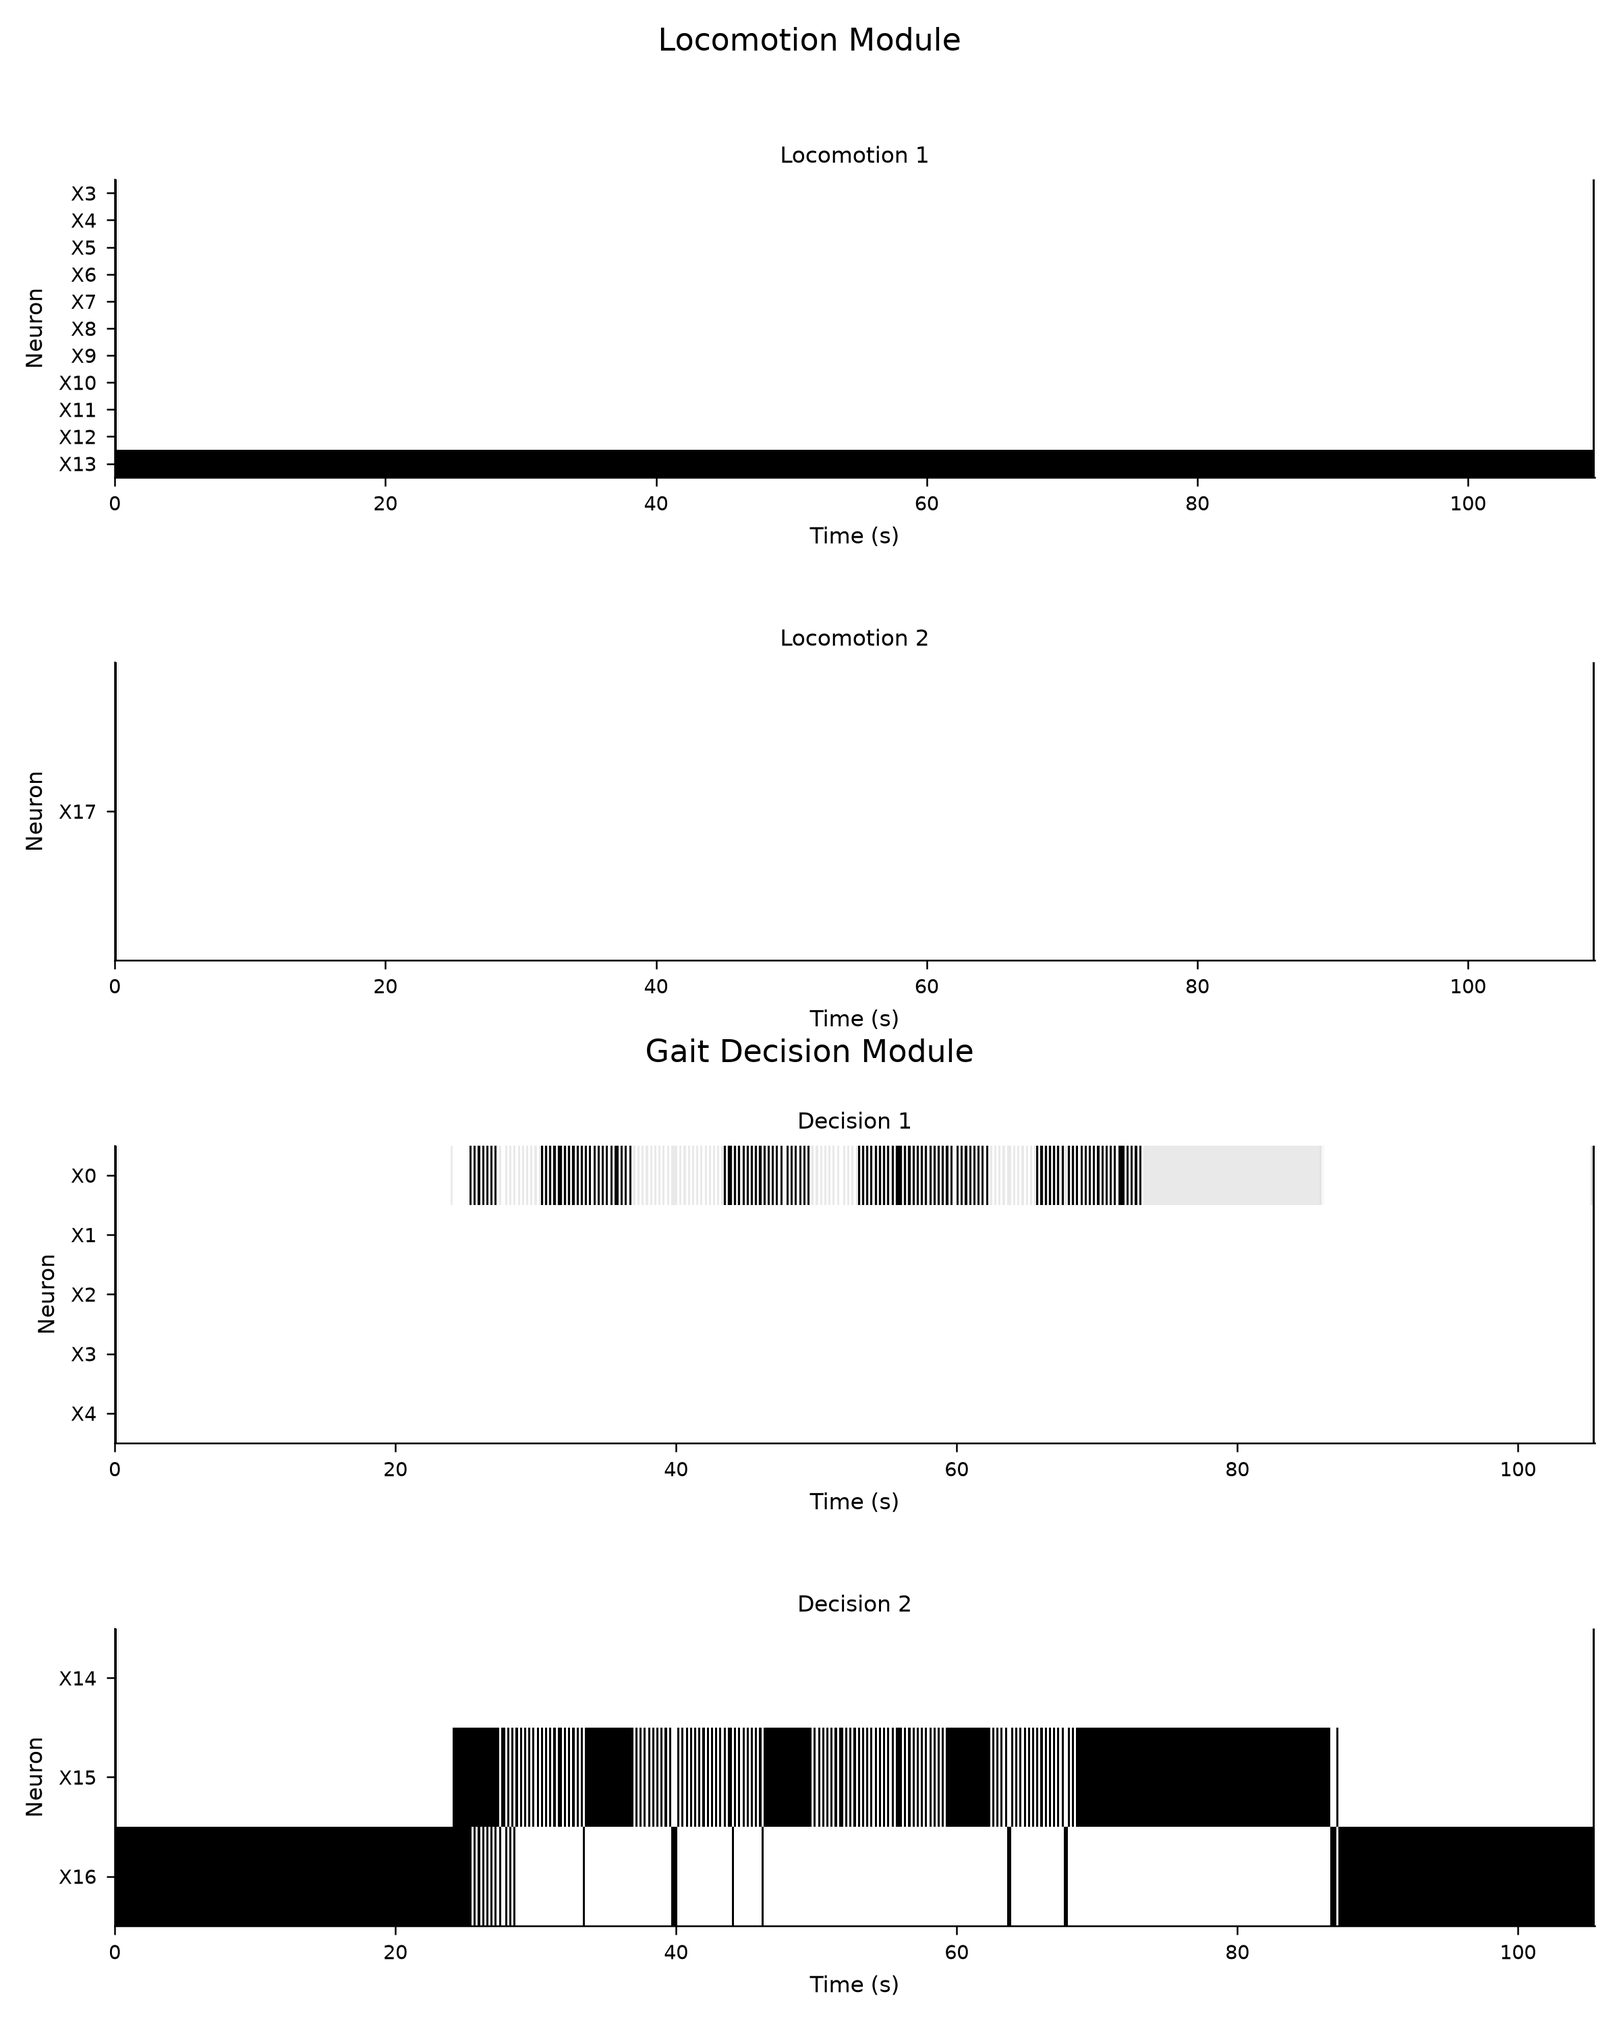
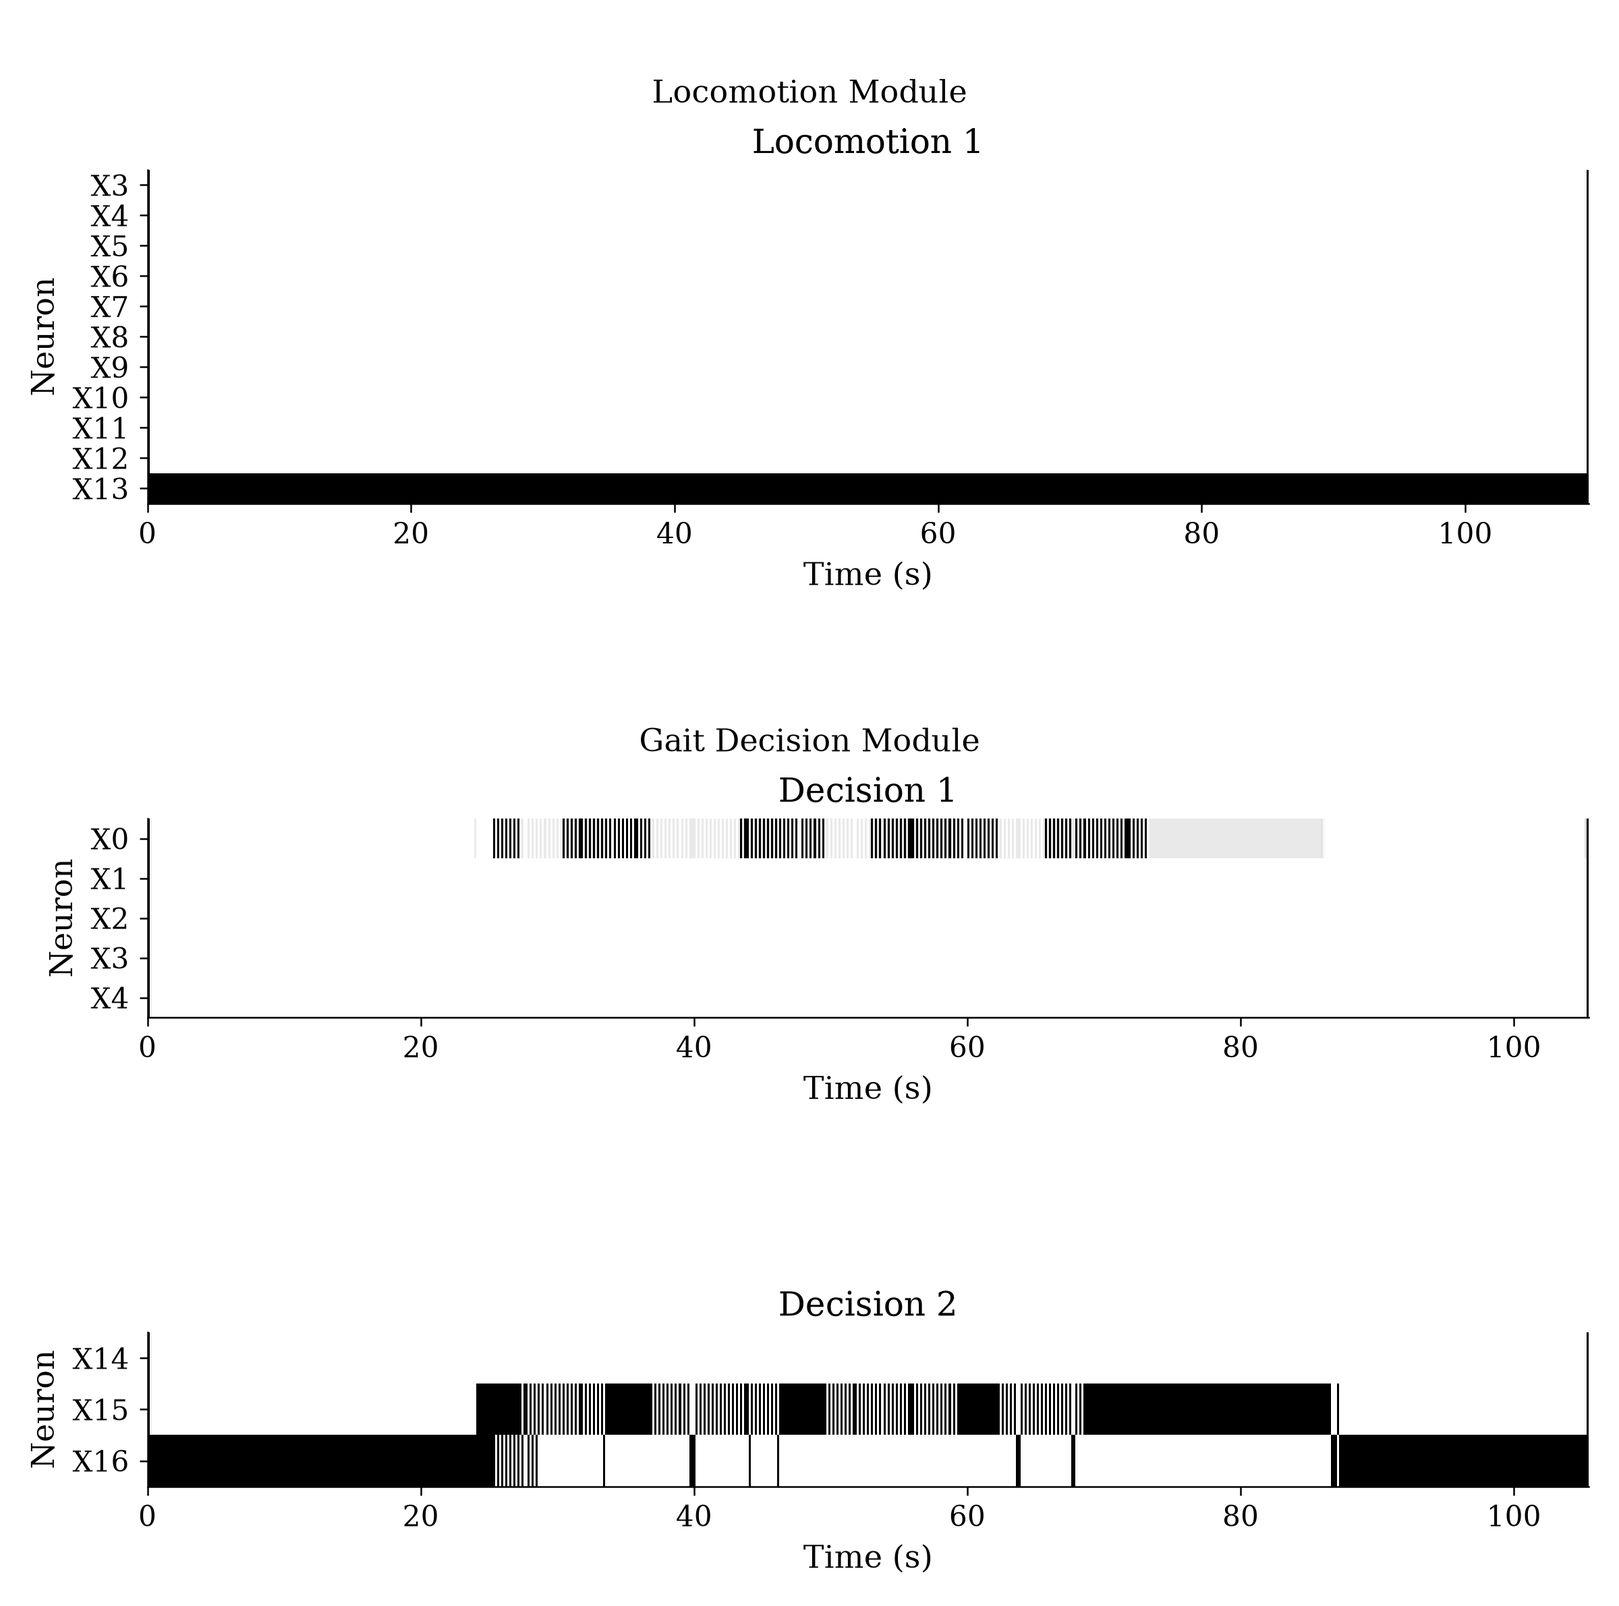
patch: C-70 R3b-04 batch 1 -- unify typeface between simulation and physical IMU figures
Reviewer 3 item 4 asks to unify font and legend styles between simulation and
real-robot plots. Four physical IMU figures were the only ones still rendering
sans-serif.

Root cause confirmed rather than inferred: style.py applies the shared style at
import time and the builder imports it, so those PNGs simply predated style.py
and had never been regenerated. Re-running the builder unchanged altered exactly
those four files and left the other three it writes byte-identical.

Promoted 6 assets (names unchanged, so no \includegraphics edit):
  NEU_IMU_real, NEU_IMU2_real, GRAPH_IMU_real, GRAPH_IMU2_real
  NEU_IMU, NEU_IMU2  (simulation twins, same builder change)

Builder fixes the regeneration exposed:
- panel height now follows each panel's neuron count, so the 11 y labels of
  Locomotion_1 (X3..X13) stop collapsing into an unreadable block;
- group titles always anchored to the rendered panel title, replacing the
  hardcoded y=0.975/0.475 that only matched the old fixed-height layout;
- the literal "--" in the GRAPH title is now a real em dash.

Answers open question (b) of the diagnosis: the "Locomotion 2 / X17" panel looks
blank because X17 is flat at ~0 for 729 of 731 samples, its only two samples
above 0.5 being the first and the last of the record -- an edge artifact of the
capture, not activity. C-53 already dropped that panel from the simulation twins,
so keeping it only on the physical side was itself a sim-vs-physical
[…]

diff --git a/experiments/_plotting/builders/imu_terrain_real.py b/experiments/_plotting/builders/imu_terrain_real.py
@@ -52,7 +52,7 @@ def build_graph_imu(csv_path: str, output_path: str, title_suffix: str) -> None:
     ax.set_yticks([0.5, 1.5, 2.5])
     ax.set_yticklabels([ROW_LABELS_F05[r] for r in ROW_ORDER])  # F-05: N0/N1/N2 notation added
     ax.set_xlabel("Time (s)")
-    ax.set_title(f"MLP output states: Flat ($N_0$) / Inclined ($N_1$) / Stuck ($N_2$) --{title_suffix}")
+    ax.set_title(f"MLP output states: Flat ($N_0$) / Inclined ($N_1$) / Stuck ($N_2$) \u2014{title_suffix}")
     fig.tight_layout()
     os.makedirs(os.path.dirname(output_path), exist_ok=True)
     fig.savefig(output_path, dpi=DPI)
@@ -85,7 +85,13 @@ def build_neu_imu(csv_path: str, output_path: str, group_letters: dict[str, str]
     group_letters = group_letters or {}
     locomotion_panels = [p for p in panels if p.startswith("Locomotion")]
     decision_panels = [p for p in panels if p.startswith("Decision")]
-    fig, axes_arr = plt.subplots(len(panels), 1, figsize=(8, 2.5 * len(panels)))
+    # R3b-04 batch 1: a fixed 2.5 in per panel made the y labels of a crowded panel overlap
+    # (Locomotion_1 stacks 11 neurons, X3..X13, in the same height a 3-neuron panel gets). Height
+    # now follows each panel's neuron count, with a floor so a small panel stays readable too.
+    counts = [max(len(df[df.panel == p]["neuron"].unique()), 3) for p in panels]
+    heights = [0.26 * c + 1.0 for c in counts]
+    fig, axes_arr = plt.subplots(len(panels), 1, figsize=(8, sum(heights)),
+                                 gridspec_kw={"height_ratios": heights})
     axes = list(np.atleast_1d(axes_arr))
     for ax, p in zip(axes, panels):
         sub = df[df.panel == p]
@@ -111,20 +117,18 @@ def build_neu_imu(csv_path: str, output_path: str, group_letters: dict[str, str]
     # reserves extra vertical space for group_letters (see R02-01-05 §0ter: this collision was
     # found and fixed while restoring the a)/b) letters).
     bottom = 0.08 if group_letters else 0.0
-    h_pad = 6.5 if group_letters else 3.5  # extra room for the letter *and* the next group's
+    h_pad = 6.5  # extra room for the letter *and* the next group's
     # title to both fit in the gap between the locomotion group's last xlabel and the decision
     # group's first title.
     fig.tight_layout(rect=(0, bottom, 1, 0.94), h_pad=h_pad)
-    if group_letters:
-        if locomotion_axes:
-            _place_group_title_above(fig, locomotion_axes[0], "Locomotion Module")
-        if decision_axes:
-            _place_group_title_above(fig, decision_axes[0], "Gait Decision Module")
-    else:
-        # Original fixed positions, kept byte-for-byte unchanged for the no-letters, full-4-panel
-        # case (the already-published NEU_IMU_real/NEU_IMU2_real in __main__ below use this path).
-        fig.text(0.5, 0.975, "Locomotion Module", ha="center", fontsize=11)
-        fig.text(0.5, 0.475, "Gait Decision Module", ha="center", fontsize=11)
+    # R3b-04 batch 1: both paths now anchor the group titles to each group's first rendered panel
+    # title. The no-letters path used to hardcode y=0.975 and y=0.475, which only lined up with the
+    # old fixed-height 4-panel layout: once panel heights follow their neuron count (and once the
+    # X17 panel is dropped), 0.475 lands inside the "Decision 1" panel instead of above it.
+    if locomotion_axes:
+        _place_group_title_above(fig, locomotion_axes[0], "Locomotion Module")
+    if decision_axes:
+        _place_group_title_above(fig, decision_axes[0], "Gait Decision Module")
     # Letter goes below each group's *last* axes' "Time (s)" label, not just below the axes box
     # itself.
     if "Locomotion_1" in group_letters and locomotion_axes:
@@ -233,8 +237,16 @@ if __name__ == "__main__":
 
     build_graph_imu(f"{vec}/graph_imu_real.csv", f"{out}/GRAPH_IMU_real.png", " Rugged Terrain (Physical)")
     build_graph_imu(f"{vec}/graph_imu2_real.csv", f"{out}/GRAPH_IMU2_real.png", " Inclined Slope (Physical)")
-    build_neu_imu(f"{vec}/neu_imu_real.csv", f"{out}/NEU_IMU_real.png")
-    build_neu_imu(f"{vec}/neu_imu2_real.csv", f"{out}/NEU_IMU2_real.png")
+    # R3b-04 batch 1: drop the "Locomotion_2" (X17) panel here too. C-53 already dropped it from the
+    # simulation twins for carrying no interpretable temporal information, and keeping it only on the
+    # physical side is exactly the sim-vs-physical inconsistency Reviewer 3 item 4 is about. In these
+    # two CSVs X17 is flat at ~0 for 729 of its 731 samples; the only two samples above 0.5 are the
+    # very first and the very last of the record (t=0.0 and t=109.36 / t=104.29), i.e. an edge artifact
+    # of the capture, not activity. Rendered, that panel is simply blank, which reads as a broken
+    # figure. Pass the default 4-panel list back here to restore it.
+    three = ["Locomotion_1", "Decision_1", "Decision_2"]
+    build_neu_imu(f"{vec}/neu_imu_real.csv", f"{out}/NEU_IMU_real.png", panels=three)
+    build_neu_imu(f"{vec}/neu_imu2_real.csv", f"{out}/NEU_IMU2_real.png", panels=three)
     build_terrain_latencies(f"{vec}/terrain_latencies.csv", f"{out}/FigReal_Terrain_Latencies_4Panels.png")
 
     # group_letters restores the a)/b)/c)/d) annotations results.tex cites by letter

diff --git a/patches/c-70-r3b04-batch1-typeface.tex b/patches/c-70-r3b04-batch1-typeface.tex
@@ -1,0 +1,60 @@
+% Patch record for C-70 -- R3b-04 batch 1: typeface unification (simulation vs physical) and the
+% defects that the regeneration exposed. Applied 2026-11-01. No sections/*.tex text changed: this
+% row only replaces six assets. Captions ("simulation" vs "physical trials") are the LAST step of
+% R3b-04 and are not in this row.
+%
+% Reviewer 3, item 4 (verbatim): "Format styles are inconsistent between simulation and real-robot
+% plots. Unify font and legend styles, and mark clearly whether each plot comes from simulation or
+% physical trials in captions."
+%
+% ROOT CAUSE OF THE SANS-SERIF FIGURES
+% Not a missing style call. `experiments/_plotting/style.py` applies the shared style at import time
+% and `imu_terrain_real.py` imports it, so running the builder today already yields serif. The four
+% physical IMU PNGs in assets/ simply predated style.py and had never been regenerated -- the
+% diagnosis doc listed this as an inference; it is now confirmed, because re-running the builder
+% unchanged altered exactly those four files and left the other three it also writes
+% (FigReal_Terrain_Latencies_4Panels, NEU_EST_UNIG_real, NEU_EST_MUL_real) byte-identical.
+%
+% PROMOTED ASSETS (6, all via scripts/promote_figure.sh --force; file names unchanged, so no
+% \includegraphics in sections/*.tex needed editing)
+%   from experiments/N-02-physical-figure-regeneration/output/:
+%     NEU_IMU_real.png, NEU_IMU2_real.png, GRAPH_IMU_real.png, GRAPH_IMU2_real.png
+%   from experiments/N-01-simulation-figure-regeneration/output/:
+%     NEU_IMU.png, NEU_IMU2.png
+%
+% BUILDER CHANGES (experiments/_plotting/builders/imu_terrain_real.py)
+% 1) Panel height now follows each panel's neuron count --
+%    `heights = [0.26 * max(n_neurons, 3) + 1.0]`, passed as gridspec height_ratios, replacing a flat
+%    2.5 in per panel. The old layout gave an 11-neuron panel (Locomotion_1, X3..X13) the same height
+%    as a 3-neuron one, so its y labels overlapped into an unreadable block -- visible in the old
+%    assets/NEU_IMU.png and listed in the diagnosis under "Real defects". Labels are legible now at
+%    the style's 10 pt without shrinking the font.
+% 2) Group titles ("Locomotion Module" / "Gait Decision Module") now always go through
+%    `_place_group_title_above`, which anchors them to the group's first rendered panel title. The
+%    no-letters path used to hardcode y=0.975 and y=0.475; those constants only matched the old
+%    fixed-height 4-panel layout, and with the new heights 0.475 landed inside the "Decision 1"
+%    panel. Both code paths now share one positioning rule.
+% 3) The literal "--" in the GRAPH_IMU title is now a real em dash (U+2014), with a space on each
+%    side. Listed in the diagnosis as in-image typography to clean up.
+%
+% THE X17 PANEL -- this answers open question (b) of the diagnosis
+% The diagnosis asked what NEU_IMU2_real's "Locomotion 2 / X17" panel should show, since it renders
+% blank. Checked against the vectorized CSVs the builder reads: in BOTH neu_imu_real.csv and
+% neu_imu2_real.csv, X17 is flat at ~0 for 729 of 731 samples, and the only two samples above 0.5 are
+% the FIRST and the LAST of the record (t=0.0 and t=109.36; t=0.0 and t=104.29). That is an edge
+% artifact of the capture, not neural activity, and it renders as two ~1 px lines at the plot borders
+% -- hence a panel that looks empty.
+% The simulation twins already dropped this panel under C-53, for the related reason that X17 there is
+% tonically active near-constant ~0.5 and carries no interpretable temporal variation. Keeping the
+% panel only on the physical side was therefore itself a simulation-vs-physical inconsistency, i.e.
+% exactly what Reviewer 3 item 4 is about. Both physical figures now pass
+% panels=["Locomotion_1", "Decision_1", "Decision_2"], matching the simulation call sites.
+% Reversible in one argument: pass the default 4-panel list to restore it.
+%
+% KNOWN, NOT FIXED HERE (batch 2+)
+% - Effective font size in the compiled PDF. These figures are authored at 8 in wide and placed at
+%   0.5\textwidth, so 10 pt text is scaled down well below 10 pt on the page. Fixing it properly means
+%   choosing an authoring width per figure that matches its final printed width, across all builders
+%   -- a bigger change than this row, and the diagnosis already flags it ("effective size in the PDF"
+%   ranging ~3.4 pt to ~13 pt).
+% - The in-image titles that duplicate the caption, and the remaining palette/jargon items.

diff --git a/PROGRESS.md b/PROGRESS.md
@@ -124,3 +124,4 @@ Resolved by renumbering the second-arriving set (Sebas's) to the next free IDs a
 | C-67 | — | **Deivi -- caption follow-ups from the `C-57` debate** (`intake/pending/second_pass_simplification_debate.md`, "Deferred to owners"). P-15: the variable-topography main caption repeats its three subcaptions and ends with a filler sentence; keep the proposed text as a base but drop "under stochastic variable-topography conditions" (see S-02). P-07: subcaption clause. P-14: caption trims. P-03: keep that caption as it is. Not part of this row: `R3b-04` (own row) and the ablation prose (`C-60`, Sam). Due: not set (hard stop for the round 2026-11-04). | results.tex (variable-topography and ablation captions) | — | Escritura | Deivi | pending | — |
 | C-68 | — | **Remove the team's internal nomenclature from the manuscript's visible text** (author request 2026-10-31): it is our bookkeeping, not the paper's vocabulary. Four spots, all in `results.tex`: the bare reviewer-item tags `(R3-01)`/`(R3-02)` in the "Taken together" paragraph (the third tag in that block was already dropped by `C-60`, which flagged these two as out of scope); the rebuttal voice "To directly address the reviewer's request for ..." that introduces the ablation subsection; the internal data-folder names `Appetitive_Real`/`Aversive_Real`/`Complex_Real`/`Obstacle_Real` in the four physical-experiment captions; and `tab:fsm_comparison`'s column header `Family` → `Suite` (what the surrounding prose and `tab:consolidated_simulation_metrics` already call it). Deliberately **not** wrapped in `\revblue{}`: every change is a deletion or a rewording with zero change of meaning, number, claim or citation. Swept clean: no `familia`/`C1`/`C2`/`test_NNN`/file-name/round-number string survives in visible text; the surviving "family" matches are ordinary English. Internal names inside `\label{}`/`\ref{}`/`\includegraphics{}` are invisible in the PDF and left alone on purpose. | results.tex (`l.192`, `l.217`, `tab:fsm_comparison` header, 4 physical captions) | — | Escritura | Deivi | applied | `patches/c-68-internal-nomenclature.tex` |
 | C-69 | — | **Resolve the Roll RMS contradiction Sam flagged in PR #17**: the prose said the mean Roll RMS stays ≤1.59° "across both variable-topography terrains" while `tab:fsm_comparison` reports Inclined Slope/Neural 6.751 ± 7.160° (N=3). Root cause found in the per-trial logs: **two independent batteries of the same two terrain scenarios** were being cited as one (`experiments/simulation/` → prose and figure, slope mean 1.469 / rugged 1.586; `R3-04-noise-robustness/data/` → the table's terrain rows, slope mean 2.997 / rugged 1.784), plus a logging artifact in one trial (`familia_c2_pendiente/test_006_SUCCESS`: Roll RMS below 1.486° for 67.8 s, median 1.398° like its peers, then a 0.6 s climb to 16.876° after which every telemetry column repeats bit-for-bit for 3.0 s). Note the table's Rugged/Neural row (1.827°) already exceeded the bound with no outlier, so telling the datasets apart was the real fix. Author decision 2026-10-31: **scope the claim and explain the table, exclude no data** — no number changed, no trial dropped. Still open, not this row: whether to reconcile the two batteries for the final version. | results.tex (transition-stability paragraph ~l.466, `tab:fsm_comparison` caption) | `experiments/R3-04-noise-robustness/data/`, `experiments/simulation/` | Escritura | Deivi | applied | `patches/c-69-roll-rms-contradiction.tex` |
+| C-70 | 3 | **R3b-04 batch 1 — typeface unification (simulation vs physical).** Regenerated and promoted 6 assets: `NEU_IMU_real`, `NEU_IMU2_real`, `GRAPH_IMU_real`, `GRAPH_IMU2_real` (were sans-serif, the only four left that way) plus their simulation twins `NEU_IMU`, `NEU_IMU2`, which the same builder change touches. **Root cause confirmed, not inferred:** the builder already applies `style.py` at import, so those four PNGs simply predated it and had never been regenerated — re-running the builder unchanged altered exactly those four and left the other three it writes byte-identical. Builder fixes the regeneration exposed: panel height now follows each panel's neuron count (an 11-neuron panel used to get the same height as a 3-neuron one, making the X3..X13 labels an unreadable block), group titles now always anchored to the rendered panel title instead of the hardcoded y=0.975/0.475 that only fitted the old layout, and the literal `--` in the GRAPH title is now a real em dash. **Answers open question (b) of the diagnosis:** the `Locomotion 2 / X17` panel is blank because X17 is flat at ~0 for 729 of 731 samples and its only two samples above 0.5 are the first and the last of the record (an edge artifact of the capture, not activity); the simulation twins already dropped that panel under `C-53`, so keeping it only on the physical side was itself a sim-vs-physical inconsistency. Dropped on both, reversible in one argument. No `sections/*.tex` text changed (file names unchanged); captions are the last step of R3b-04. Not fixed here: effective font size in the compiled PDF (these are authored 8 in wide and placed at `0.5\textwidth`), in-image titles duplicating captions, palette and jargon items. | assets (6 figures), `experiments/_plotting/builders/imu_terrain_real.py` | `experiments/N-01-simulation-figure-regeneration/`, `experiments/N-02-physical-figure-regeneration/` | Pruebas | Deivi | applied | `patches/c-70-r3b04-batch1-typeface.tex` |
